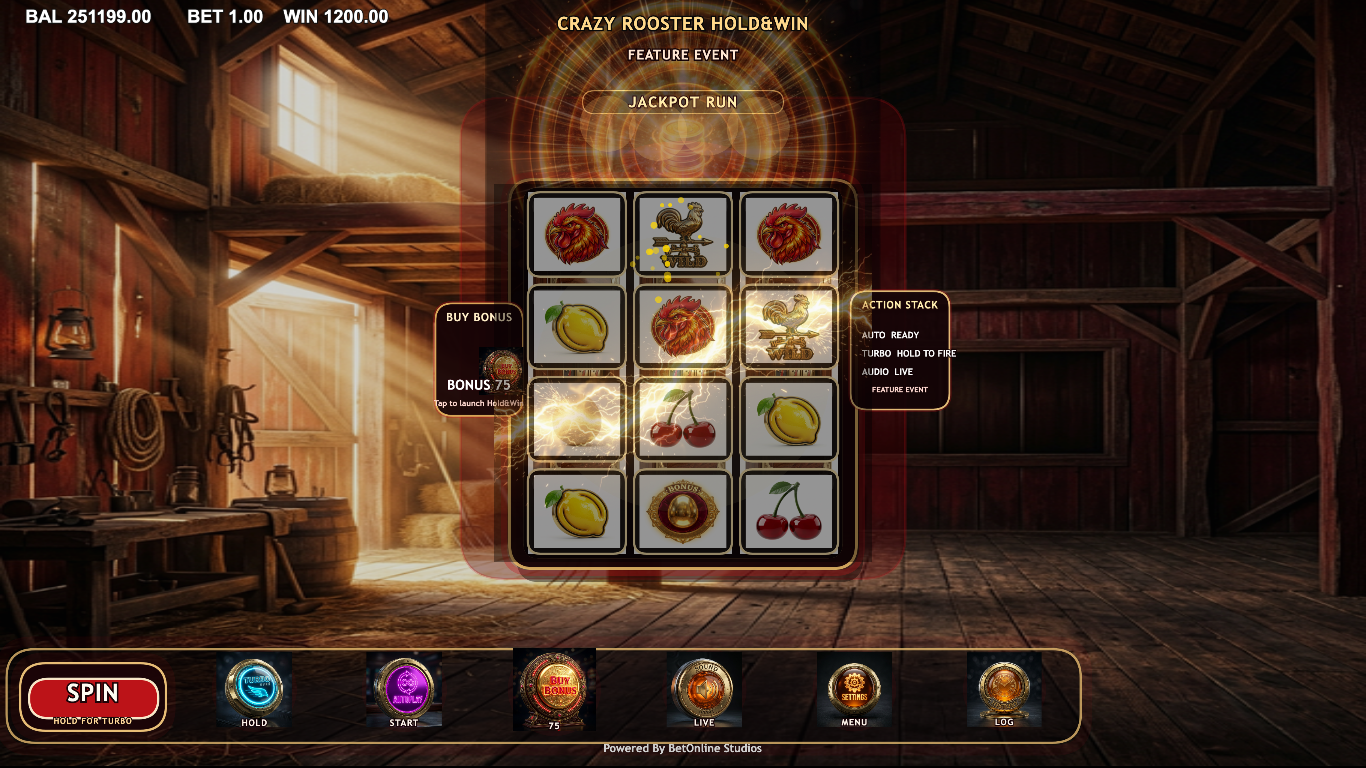
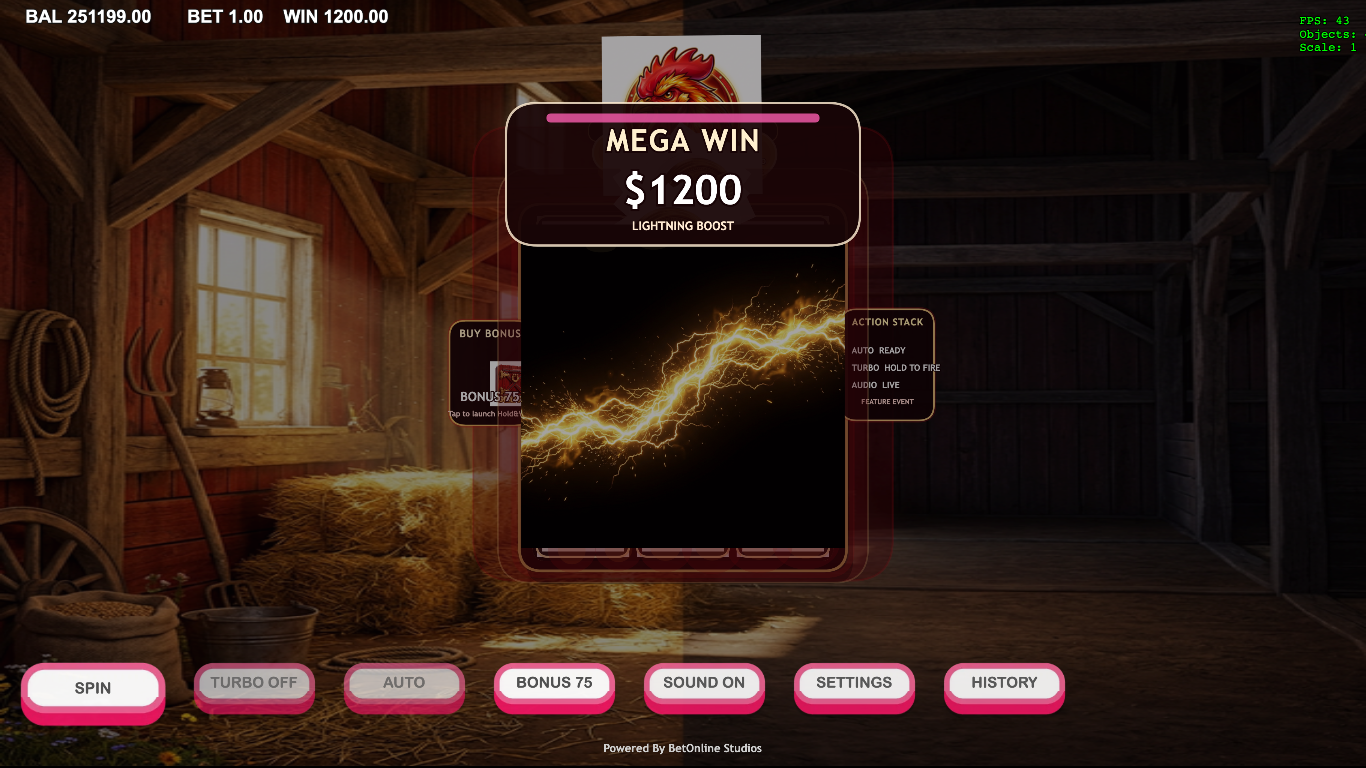
docs(7000): refresh beta3b review proof

diff --git a/Gamesv1/games/7000/docs/BETA3B_REVIEW.md b/Gamesv1/games/7000/docs/BETA3B_REVIEW.md
@@ -5,14 +5,21 @@
 - The bottom control strip no longer reads as plain shell buttons; it now has a dedicated custom rail, a bespoke spin plate, and hero-art controls for turbo, autoplay, buy bonus, sound, settings, and history.
 - The background presentation is materially stronger because Beta 3B picks up the polished NanoBanana barn scenes.
 - The preloader composition is stronger than Beta 3: the lockup is more centered, the gold frame and loading bar are heavier, and the hero glow layer adds more premium depth.
+- Provider routing and runtime pack selection are no longer a visible blocker in the hero path: the fresh Beta 3B proof resolves `nanobanana` as the effective provider with `safePlaceholder=false` and `missingKeys=[]`.
 
 ### What still looks weak
 - The preloader still relies on typography and glow composition rather than a bespoke illustrated BetOnline lockup, so it stops short of a true premium start screen.
 - The top jackpot area is improved but still feels assembled from runtime pieces rather than a single designed topper.
 - The left buy tile and right action stack are serviceable, but they still look like polished UI blocks rather than final marketing-grade chrome.
 - The slot cabinet/frame is stronger than Beta 3, but it still needs another art-led pass to fully match the donor benchmark feel.
+- The boost proof still reads as a modest state change rather than a memorable staged feature hit, which limits the sense of spectacle even though the mechanics and presentation triggers are working.
 
 ### Wave 1 visual QA judgement
 - Not ready for Wave 1 visual QA yet.
 - Mechanics/provider wiring are no longer the blocker.
 - The remaining blocker is presentation quality: more bespoke art direction and polish time are needed, especially for the preloader, topper, and side chrome.
+
+### Blocker classification
+- Missing art: yes, this is still a real blocker for premium quality.
+- Code wiring: no, not for the current Wave 1 judgement. The hero provider merge and runtime routing are already in place.
+- Polish time only: not by itself. More polish time helps, but the branch still needs additional bespoke presentation assets to convert that time into a materially stronger result.
